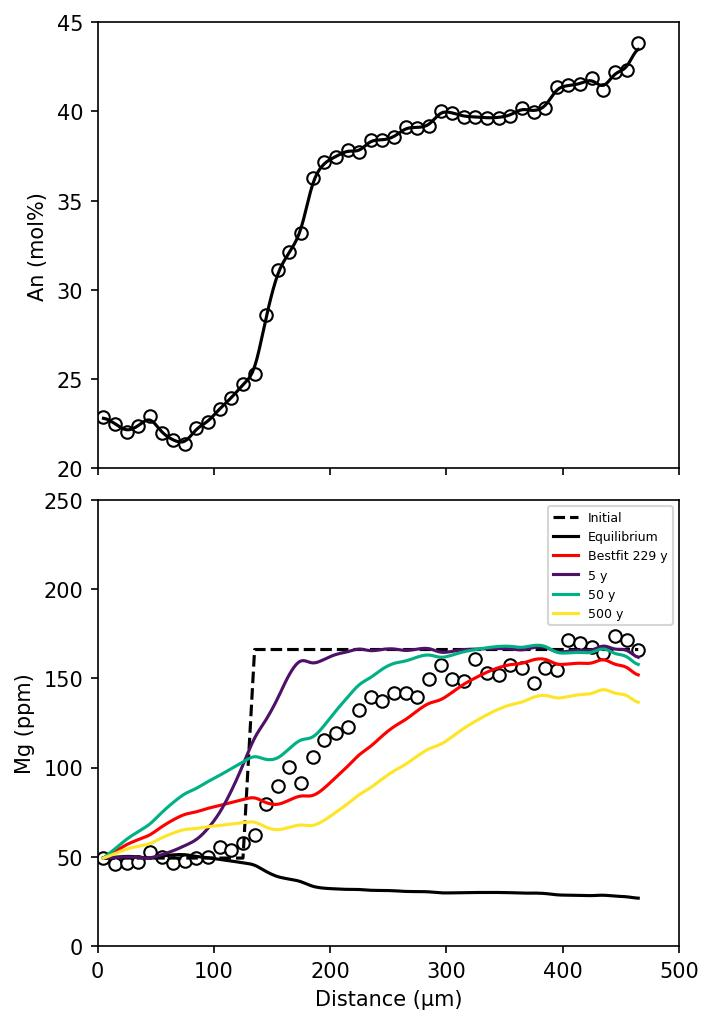
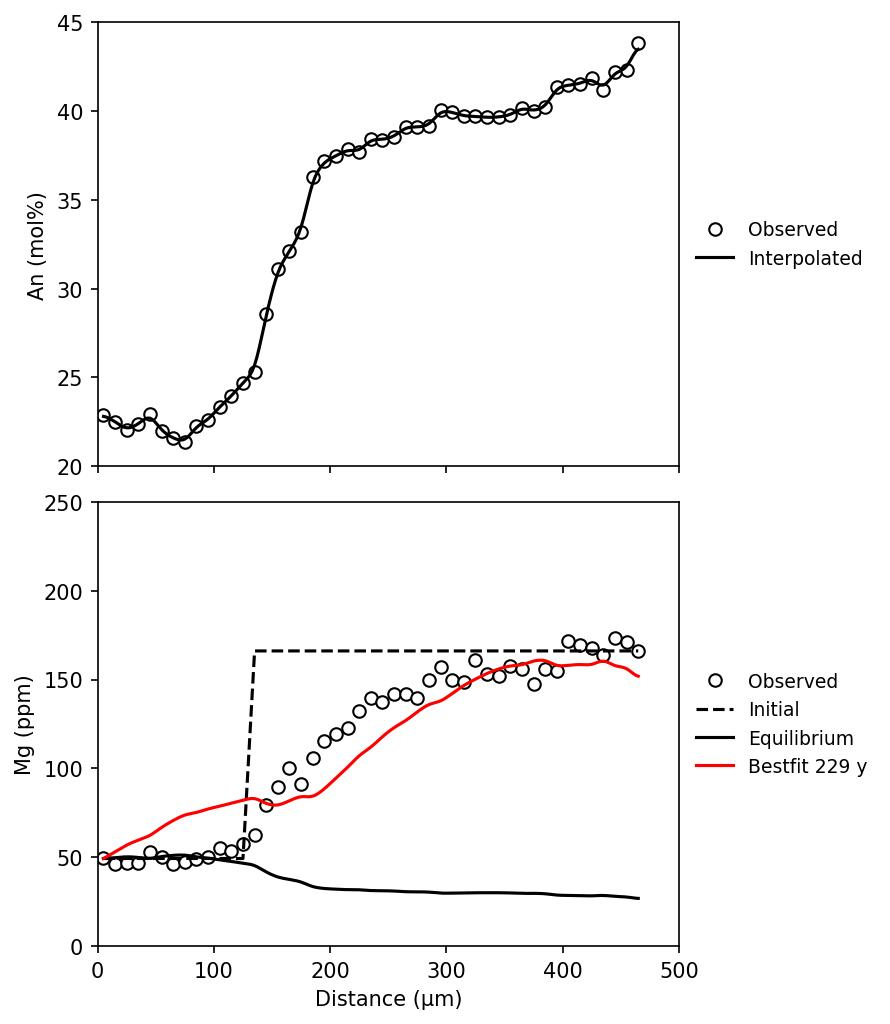
fix plotter.py

diff --git a/plotter.py b/plotter.py
@@ -49,13 +49,18 @@ plot3_ppm = df_model.iloc[:, plot3_index].to_numpy()
 
 # plot data
 fig, ax = plt.subplots(2, 1, figsize=(5, 8), sharex=True)
-fig.subplots_adjust(hspace=0.07)
-ax[0].plot(measured_distance_um, measured_An_mol, "o", c="w", mec="k")
-ax[0].plot(preprocessed_distance_um, preprocessed_An_mol, "-", c="k")
+fig.subplots_adjust(hspace=0.08)
+ax[0].plot(measured_distance_um, measured_An_mol, "o", c="w", mec="k", label="Observed")
+ax[0].plot(preprocessed_distance_um, preprocessed_An_mol, "-", c="k", label="Interpolated")
 ax[0].set_ylabel("An (mol%)")
 ax[0].set_ylim(*ylim_An)
+ax[0].legend(
+    edgecolor="w",
+    loc="center left",
+    bbox_to_anchor=(1, 0.5), fontsize=9
+    ).set_alpha(1)
 
-ax[1].plot(measured_distance_um, measured_ppm, "o", c="w", mec="k")
+ax[1].plot(measured_distance_um, measured_ppm, "o", c="w", mec="k", label="Observed")
 ax[1].plot(preprocessed_distance_um, initial_ppm, "--", c="k", label="Initial")
 ax[1].plot(preprocessed_distance_um, equilibrium_ppm, "-", c="k", label="Equilibrium")
 
@@ -86,5 +91,10 @@ ax[1].set_xlabel(xlabel)
 ax[1].set_ylabel(ylabel)
 ax[1].set_xlim(*xlim)
 ax[1].set_ylim(*ylim_model)
-ax[1].legend(fontsize=6)
+ax[1].legend(
+    edgecolor="w",
+    loc="center left",
+    bbox_to_anchor=(1, 0.5), fontsize=9
+    ).set_alpha(1)
+#fig.legend()
 fig.savefig(working_dir + "/img." + imgfmt, dpi=imgres_dpi, bbox_inches="tight")
